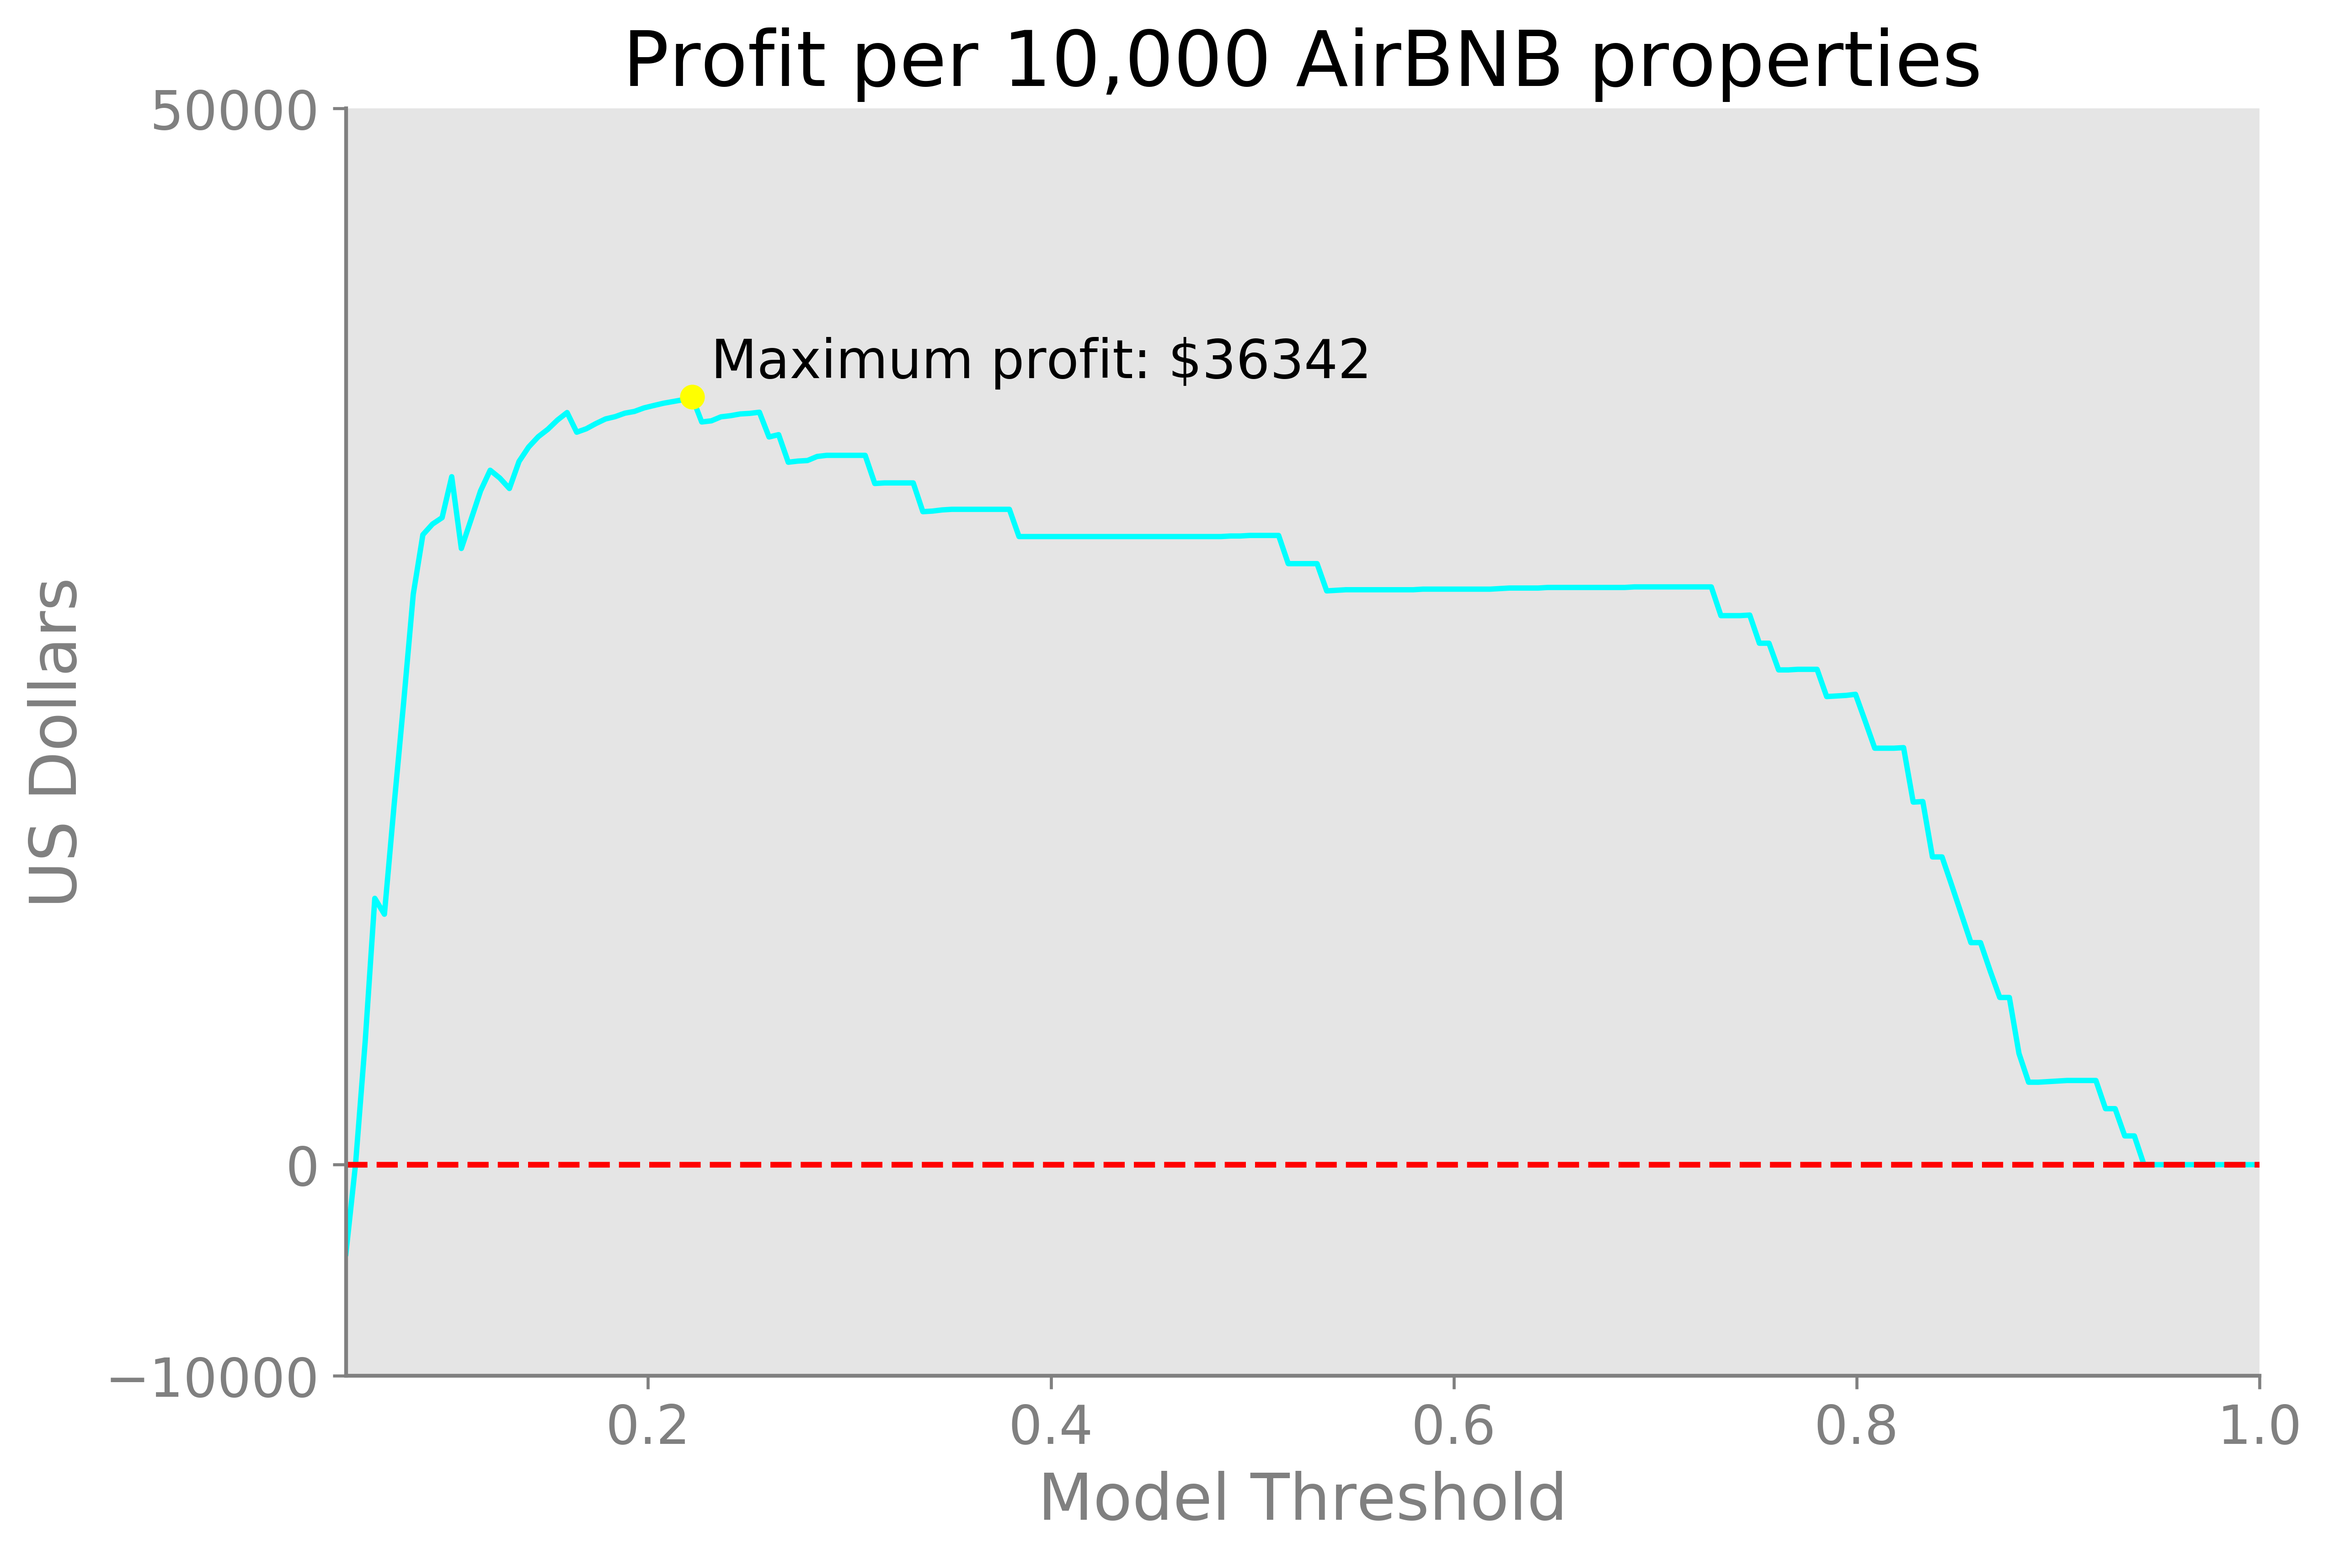
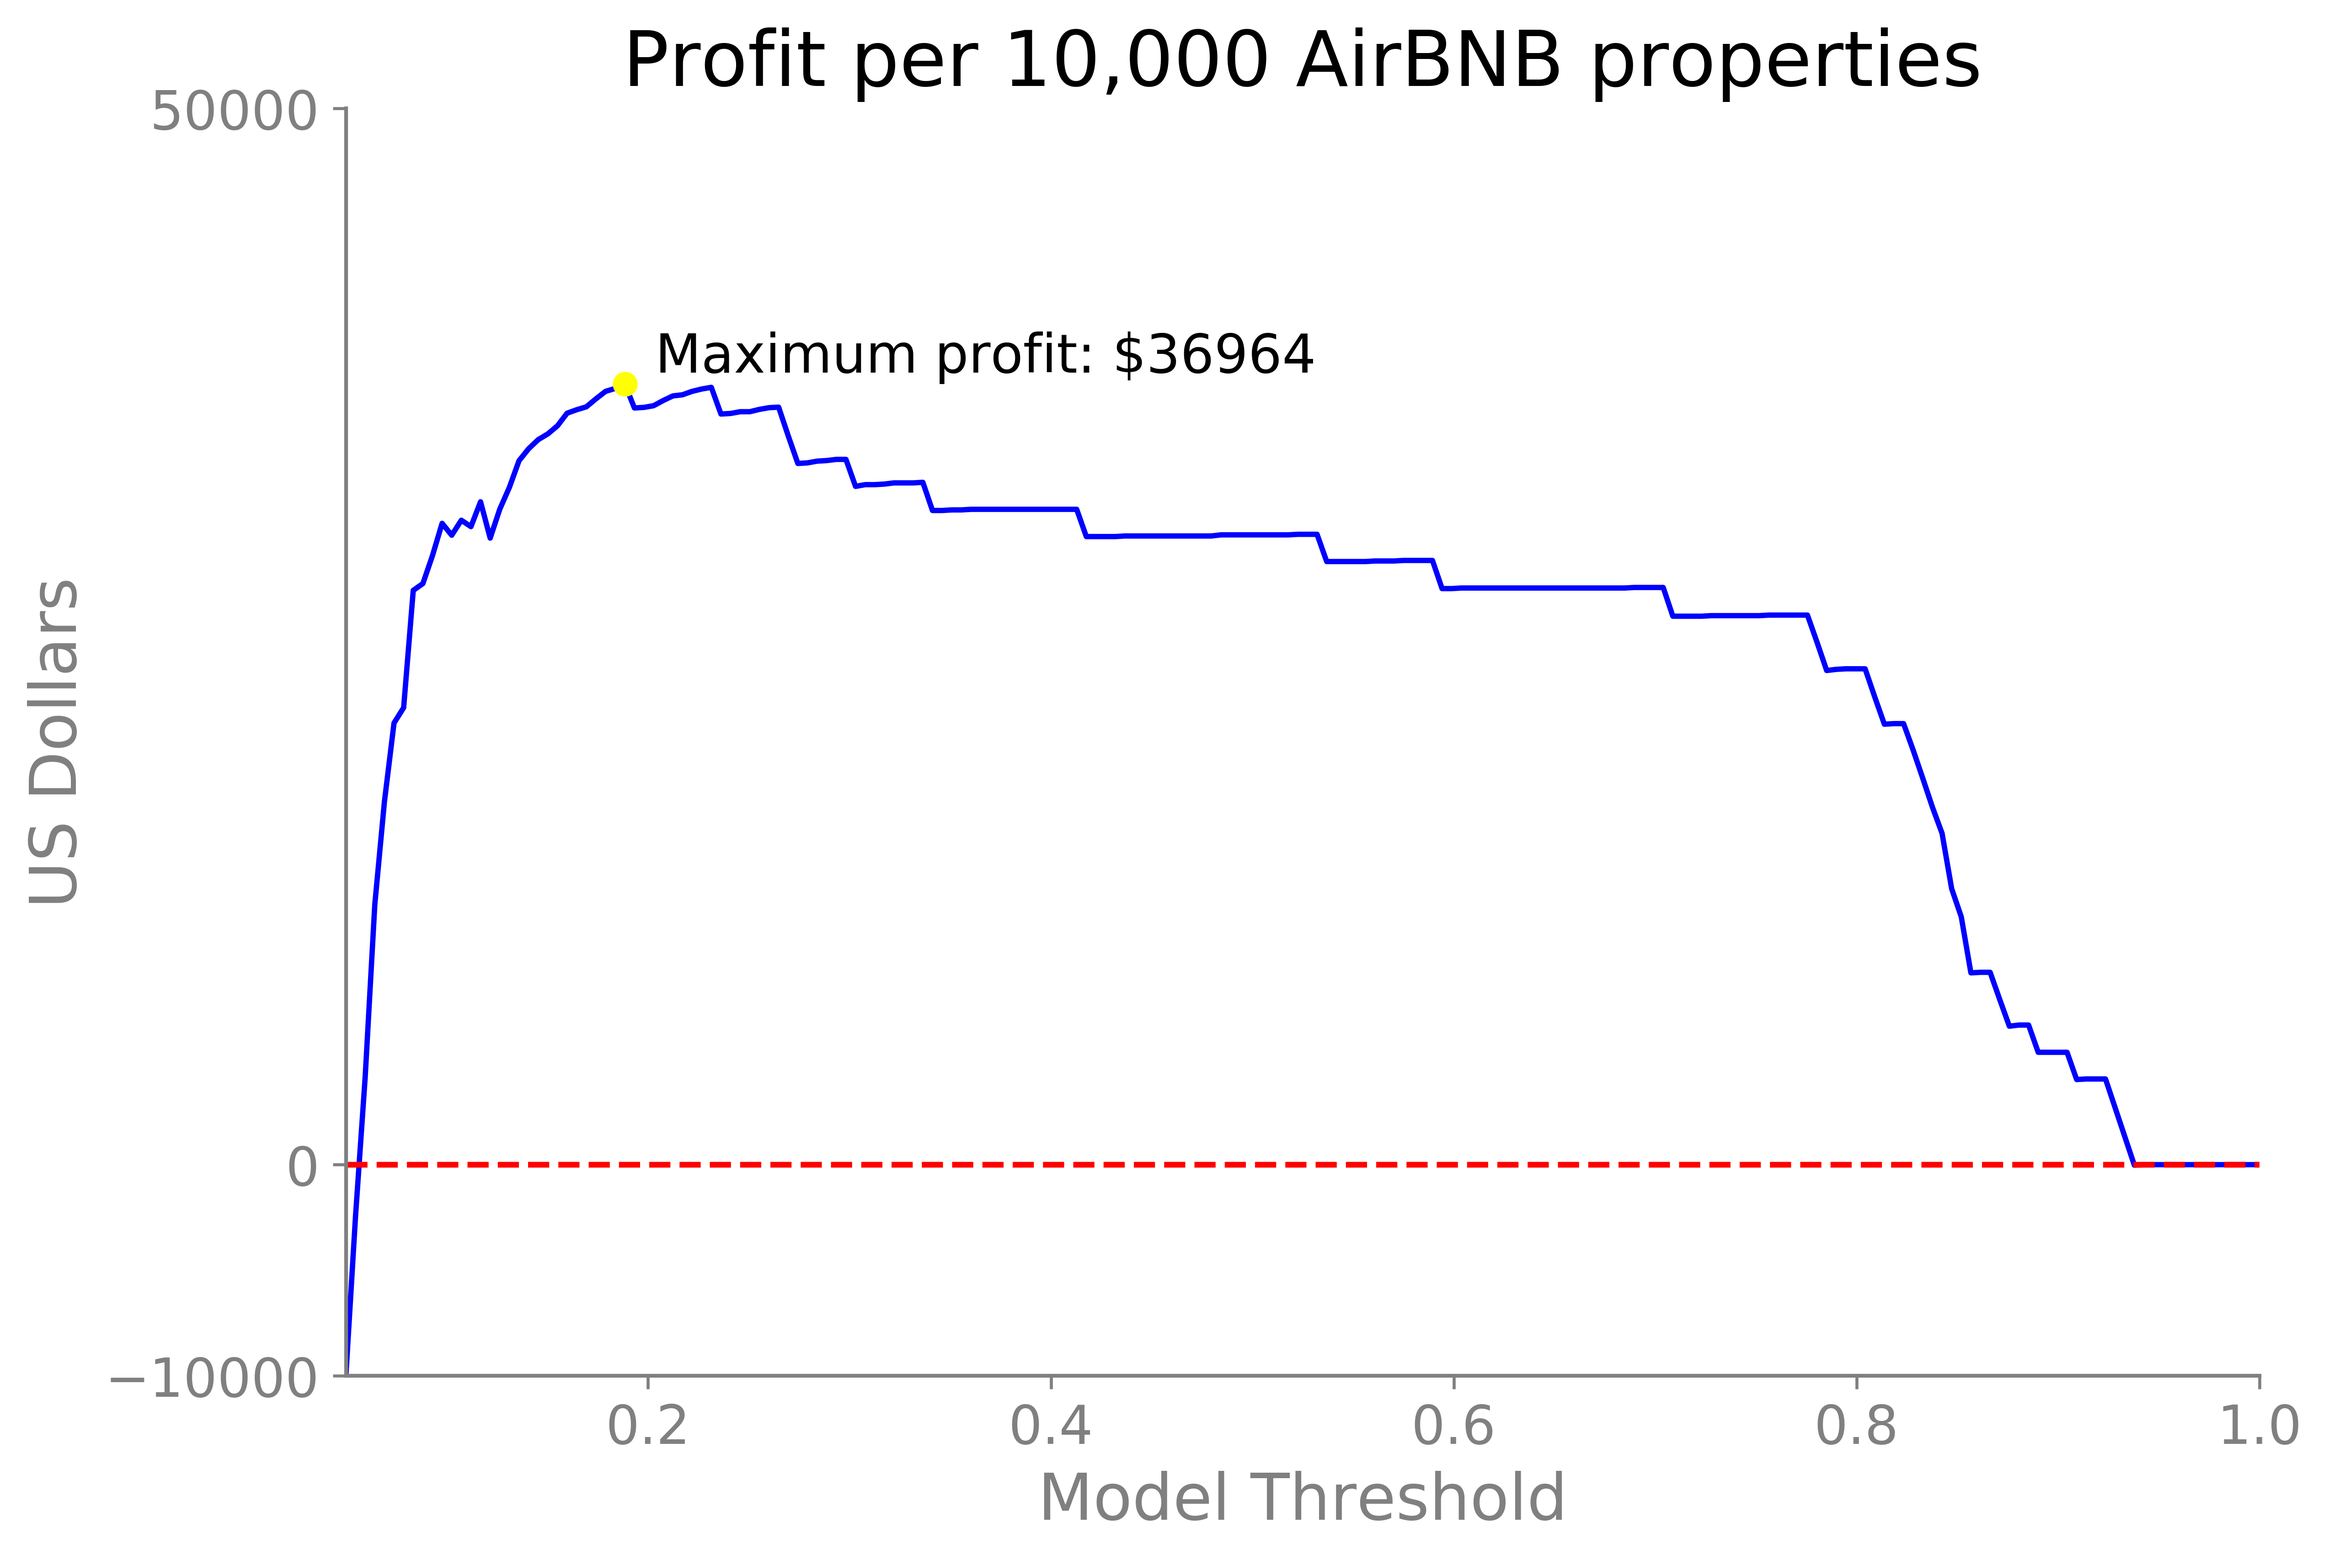
profit transparent

diff --git a/model/profit_avg.py b/model/profit_avg.py
@@ -85,8 +85,8 @@ def plot_avg_profits(classifier, filename, n_splits=5, revenue=20, cost=.25):
     max_idx = avg_profits.argmax()
     print('Max profit: {}'.format(avg_profits[max_idx]))
     ax1.scatter(thresholds[max_idx], avg_profits[max_idx], color='yellow', zorder=2) #max profit point
-    ax1.annotate('Maximum profit: ${}'.format(int(avg_profits[max_idx])), (thresholds[max_idx], avg_profits[max_idx]), xytext=(5, 5), textcoords='offset points', fontsize=14)
-    ax1.plot(thresholds, avg_profits, color='cyan', linewidth=1.4, zorder=1)
+    ax1.annotate('Maximum profit: ${}'.format(int(avg_profits[max_idx])), (thresholds[max_idx], avg_profits[max_idx]), xytext=(8, 3), textcoords='offset points', fontsize=14)
+    ax1.plot(thresholds, avg_profits, color='blue', linewidth=1.4, zorder=1)
     ax1.axhline(y=0, color='red', linestyle='--')
     ax1.spines['bottom'].set_color('grey')
     ax1.xaxis.label.set_color('grey')
@@ -101,7 +101,7 @@ def plot_avg_profits(classifier, filename, n_splits=5, revenue=20, cost=.25):
     plt.xlim([.05, 1])
     plt.ylim([-10000, 50000])
     # plt.tight_layout()
-    plt.savefig('../visualize/profit3.png', dpi=600, bbox_inches='tight', transparent=False)
+    plt.savefig('../visualize/profit3.png', dpi=600, bbox_inches='tight', transparent=True)
     # plt.show()
     return
 

diff --git a/model/compare_models.py b/model/compare_models.py
@@ -29,5 +29,5 @@ if __name__ == '__main__':
     classifiers = [xg2]
     balancing = []
     # profit_avg.plot_avg_profits(blag, filename, revenue=50, cost=1)
-    # profit_avg.plot_avg_profits(xg, filename, revenue=12.50, cost=.25)
-    rc2.plot_ROC_curve(classifiers, X, y, balancing=balancing, benchmarks=(.4, .7), save_path='../visualize/roc_xg_benchmarked.png')
+    profit_avg.plot_avg_profits(xg2, filename, revenue=12.50, cost=.25)
+    # rc2.plot_ROC_curve(classifiers, X, y, balancing=balancing, benchmarks=(.4, .7), save_path='../visualize/roc_xg_benchmarked.png')

diff --git a/README.md b/README.md
@@ -78,12 +78,12 @@ Distance from the center of the circle is clearly not distributed uniformly with
 #### ROC Curves: Blagging (Balanced Random Forest) and XGBoost
 ![ROC curves:](visualize/best_roc2.png)
 
-Note that performance is nearly identical up to ~75% recall.  Let's analyze the XGBoost model in-depth:
+Note that performance on the best models is nearly identical up to ~75% recall.  Let's analyze the XGBoost model in-depth:
 
-#### True Positive to False Positive ratios: XGBoost
+#### True Positive to False Positive ratios: XGBoost ROC Curve
 ![Benchmarked ROC curve: XGBoost](visualize/roc_xg_benchmarked.png)
 
-I've plotted points corresponding to two False-Positive/True-Positive ratios above, on an ROC curve for the XGBoost model.  Note that a 42:1 ratio gets us better than 50% recall, but we must accept a significantly higher ratio (68:1) to surpass 75% recall.  Clearly, the model is much better than random, and either of those FP:TP benchmarks is a 90%+ improvement over our original ratio of 833:1.  However, the ultimate proportion of addresses identified will also depend on a secondary process, and if that process is manual (say, comparing photos), its cost will be crucial in determining what false-to-true-positive ratio we can accept.
+I've plotted points corresponding to two False-Positive/True-Positive ratios above, on a ROC curve for the XGBoost model.  Note that a 42:1 ratio gets us better than 50% recall, but we must accept a significantly higher ratio (68:1) to surpass 75% recall.  Clearly, the model is much better than random, and either of those FP:TP benchmarks is a 90%+ improvement over our original ratio of 833:1.  However, the ultimate proportion of addresses identified will also depend on a secondary process, and if that process is manual (say, comparing photos), its cost will be crucial in determining what false-to-true-positive ratio we can accept.
 
 #### Profit curve: XGBoost
 ![Profit curve:](visualize/profit3.png)
